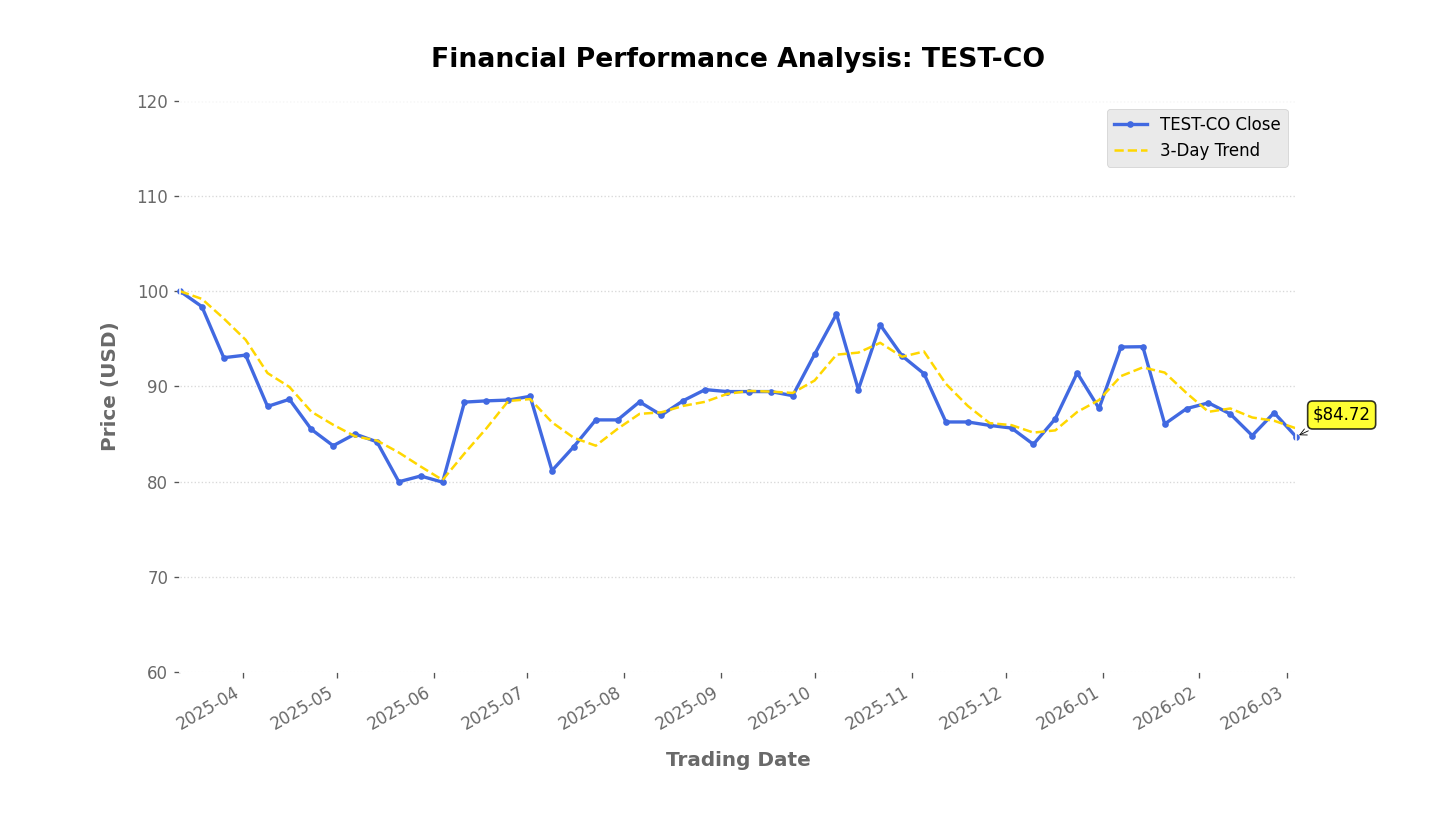
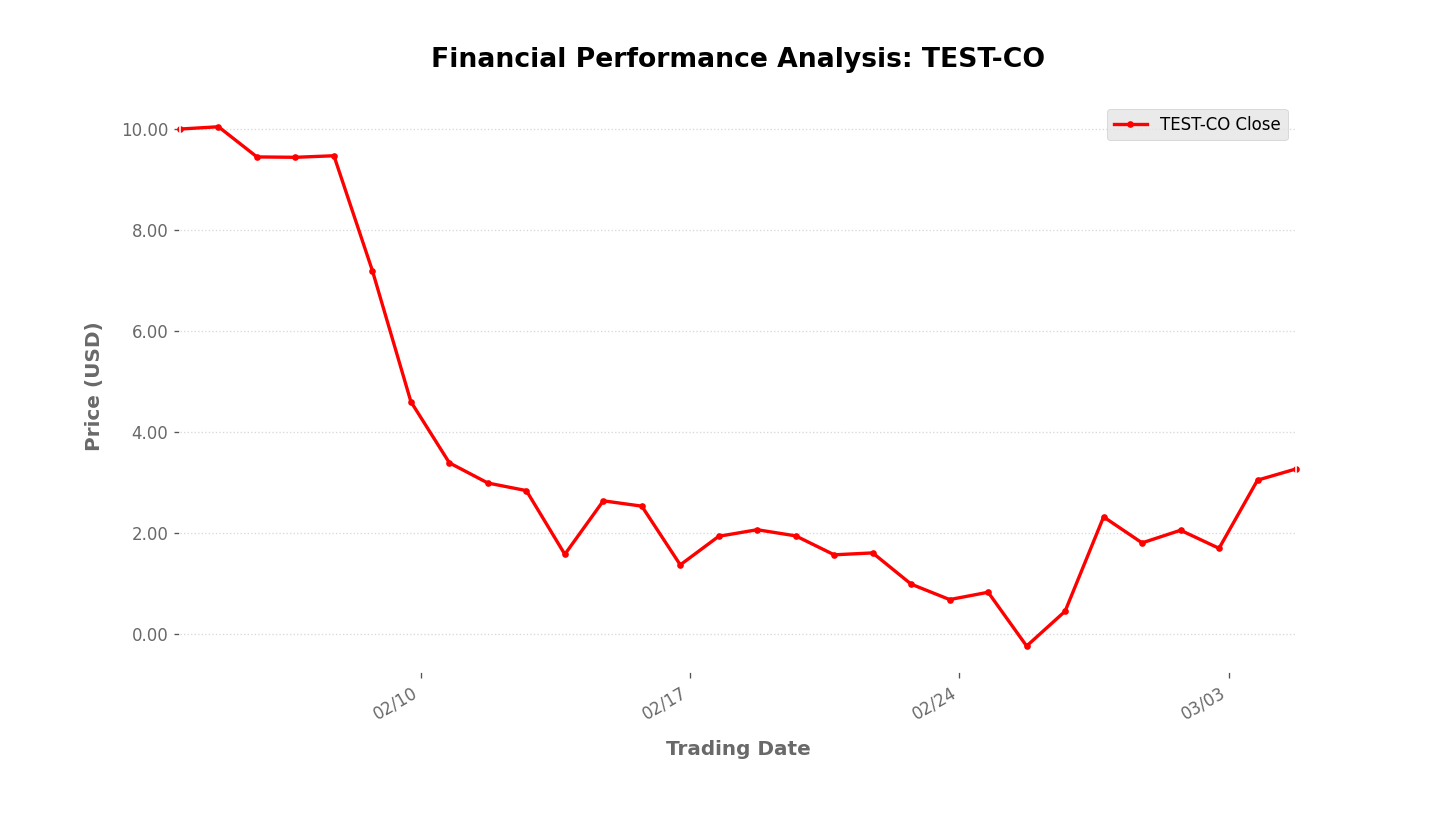
removed extra x-axis padding | added f-string formatting for prices

diff --git a/src/backend/mcp_servers/mcp_chart_generation/test_server.py b/src/backend/mcp_servers/mcp_chart_generation/test_server.py
@@ -2,8 +2,9 @@ from server import *
 from datetime import datetime, timedelta
 import random
 
-START_PRICE = 100.0 # start price for dummy prices
-NUMBER_DATA_POINTS = 52 # number of price points (corresponds with date/time points)
+START_PRICE = 10.00 # start price for dummy prices
+PRICE_DEVIATION = 3 # how far a new price may deviate from the last price
+NUMBER_OF_POINTS = 30 # number of price points (corresponds with date/time points)
 
 
 def test_chart_generation(advanced):
@@ -12,8 +13,8 @@ def test_chart_generation(advanced):
     # 1. Simulate Data: Generate dummy stock data
     # This mimics the JSON arguments Gemini would pass to the tool
     base_date = datetime.now()
-    dates = [(base_date - timedelta(weeks=i)).isoformat() for i in range(52)] # 1-YEAR weekly trend
-    # dates = [(base_date - timedelta(days=i)).isoformat() for i in range(30)] # 1-MONTH daily trend
+    # dates = [(base_date - timedelta(weeks=i)).isoformat() for i in range(52)] # 1-YEAR weekly trend
+    dates = [(base_date - timedelta(days=i)).isoformat() for i in range(30)] # 1-MONTH daily trend
     # dates = [(base_date - timedelta(days=i)).isoformat() for i in range(14)] # 2-WEEK daily trend
     # dates = [(base_date - timedelta(hours=i)).isoformat() for i in range(72)] #  3-DAY hourly trend
     # dates = [(base_date - timedelta(hours=i)).isoformat() for i in range(24)] # 1-DAY hourly trend
@@ -22,8 +23,8 @@ def test_chart_generation(advanced):
 
     # create a random walk for price
     prices = [START_PRICE] # start price
-    for _ in range(NUMBER_DATA_POINTS - 1):
-        change = random.randrange(-10, 10) * random.random()
+    for _ in range(NUMBER_OF_POINTS - 1):
+        change = random.uniform(-PRICE_DEVIATION, PRICE_DEVIATION) * random.random()
         prices.append(prices[-1] + change)
 
     print(f"Generated {len(dates)} pieces of sample data.")

diff --git a/src/backend/mcp_servers/mcp_chart_generation/server.py b/src/backend/mcp_servers/mcp_chart_generation/server.py
@@ -67,13 +67,10 @@ def _build_base_chart(
 
     ax.plot(dt_dates, prices, color=color, marker=".", linewidth=2, label=f"{symbol} Close", clip_on=False)
 
-    min_price = min(prices)
-    max_price = max(prices)
-    price_range = max_price - min_price
-    y_min = math.floor((min_price - price_range * 0.3) / GRIDLINE_INTERVAL) * GRIDLINE_INTERVAL # calculates the minimum y of the graph and makes it land on a grid interval
-    y_max = math.ceil((max_price + price_range * 0.2) / GRIDLINE_INTERVAL) * GRIDLINE_INTERVAL # calculates the maximum y of the graph and makes it land on a grid interval
-    ax.set_ylim(y_min, y_max)
-
+    # Format y-axis ticks to two decimal places if prices are within 100
+    if max(prices) < 25:
+        ax.yaxis.set_major_formatter(plt.FormatStrFormatter('%.2f'))
+    
     # Align data points to start on y-axis (x=0)
     ax.set_xlim(dt_dates[0], dt_dates[-1]) 
 
@@ -130,6 +127,10 @@ def _build_base_chart(
     # Set tick paramaters, gridlines
     ax.tick_params(axis="both", labelcolor=text_color)
     ax.yaxis.grid(True, which="both", linestyle=":", alpha=0.75, color="#cccccc")
+
+    # Apply legend
+    legend_loc = "upper left" if prices[-1] >= prices[0] else "upper right"
+    ax.legend(loc=legend_loc)
 
     fig.autofmt_xdate()
 
@@ -223,7 +224,6 @@ def generate_line_chart(
     """
     _validate_inputs(dates, prices)
     dt_dates = _parse_dates(dates)
-    # print(dt_dates)
     color = random.choice(COLORS)
 
     with plt.style.context("ggplot"):
@@ -247,9 +247,6 @@ def generate_line_chart(
                 bbox=dict(boxstyle="round,pad=0.3", fc="yellow", ec="black", lw=1, alpha=0.8),
                 color="black",
             )
-
-            legend_loc = "upper left" if prices[-1] >= prices[0] else "upper right"
-            ax.legend(loc=legend_loc)
 
         return _render_chart_to_image(fig)
 
